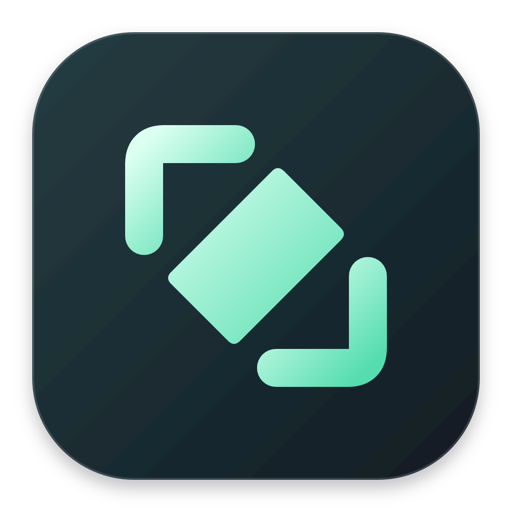
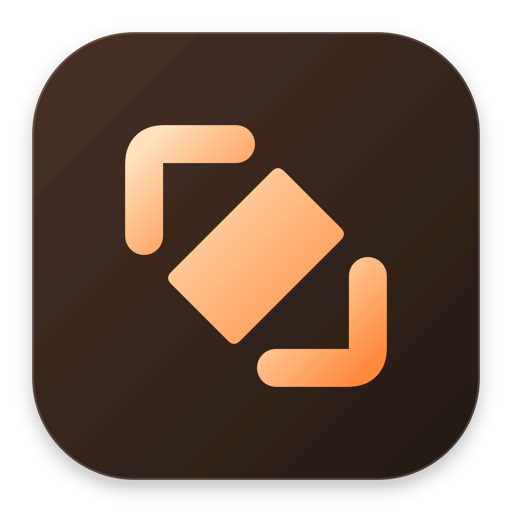
Align Quickshot with an orange accent palette

diff --git a/Quickshot/PermissionWindowController.swift b/Quickshot/PermissionWindowController.swift
@@ -158,10 +158,10 @@ private struct PermissionSetupView: View {
             }
             Divider().padding(.horizontal, 28)
             HStack(spacing: 8) {
-                Text("⌘ L").font(.system(size: 14, weight: .medium, design: .monospaced))
+                Text("⌘ Left").font(.system(size: 14, weight: .medium, design: .monospaced))
                     .padding(8).background(.quaternary, in: RoundedRectangle(cornerRadius: 8))
                 Text("+").foregroundStyle(.tertiary)
-                Text("⌘ R").font(.system(size: 14, weight: .medium, design: .monospaced))
+                Text("⌘ Right").font(.system(size: 14, weight: .medium, design: .monospaced))
                     .padding(8).background(.quaternary, in: RoundedRectangle(cornerRadius: 8))
                 Text("Press together").font(.system(size: 12)).foregroundStyle(.secondary)
                 Spacer()
@@ -171,6 +171,7 @@ private struct PermissionSetupView: View {
                     .keyboardShortcut(.defaultAction)
             }.padding(28)
         }
+        .tint(Color.accentColor)
         .frame(width: 520, height: 580)
         .background(Color(nsColor: .windowBackgroundColor))
     }
@@ -180,9 +181,9 @@ private struct PermissionSetupView: View {
         HStack(spacing: 14) {
             Image(systemName: symbol)
                 .font(.system(size: 23, weight: .regular))
-                .foregroundStyle(.blue)
+                .foregroundStyle(Color.accentColor)
                 .frame(width: 44, height: 44)
-                .background(.blue.opacity(0.08), in: RoundedRectangle(cornerRadius: 12))
+                .background(Color.accentColor.opacity(0.08), in: RoundedRectangle(cornerRadius: 12))
                 .accessibilityHidden(true)
             VStack(alignment: .leading, spacing: 5) {
                 Text(title).font(.system(size: 14, weight: .semibold))

diff --git a/CHANGELOG.md b/CHANGELOG.md
@@ -1,5 +1,12 @@
 # Changelog
 
+## 1.2.0 - 2026-11-16
+
+### Changed
+
+- Match the app icon, buttons, and highlights with a warm orange palette.
+- Spell out Left and Right in the setup shortcut so each Command key is clear.
+
 ## 1.1.0 - 2026-11-16
 
 ### Changed
